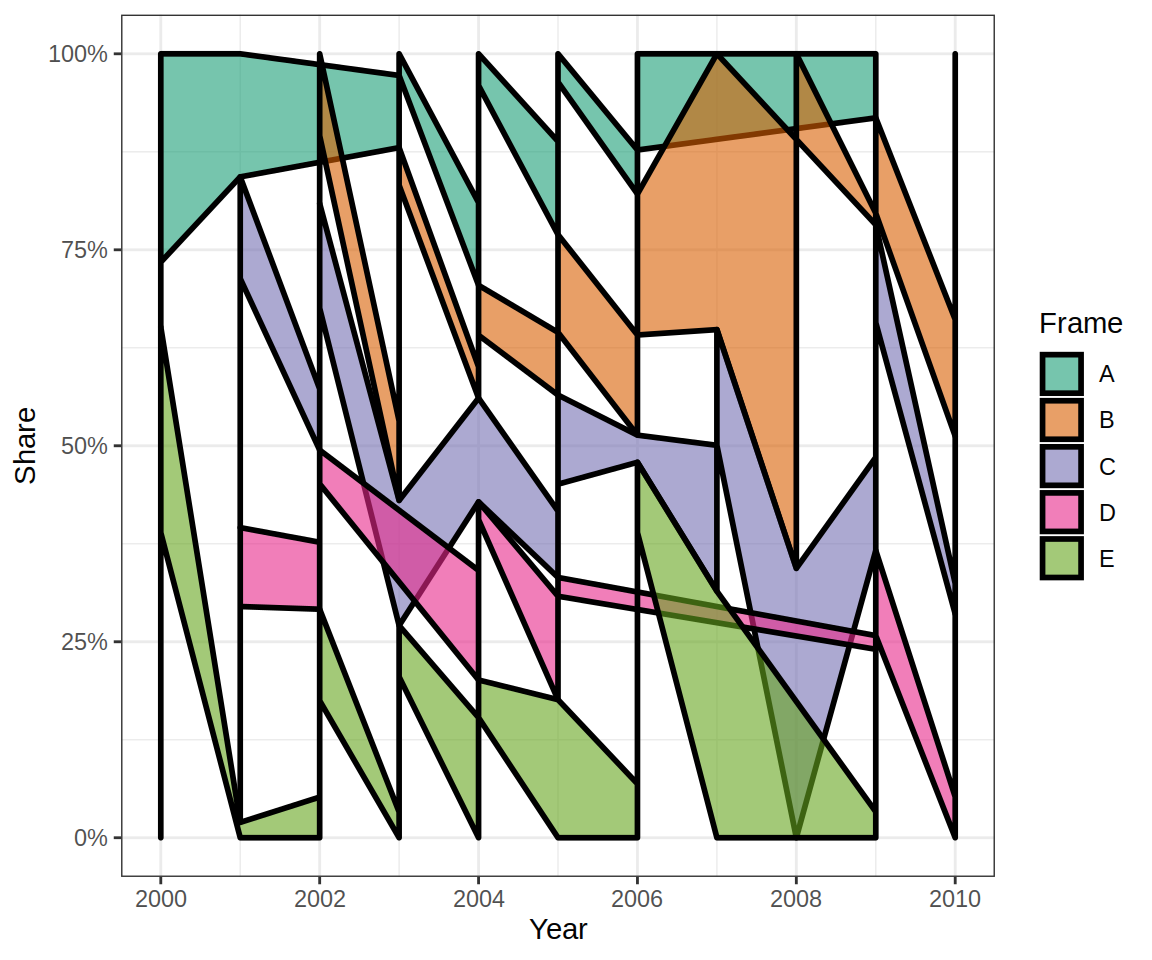
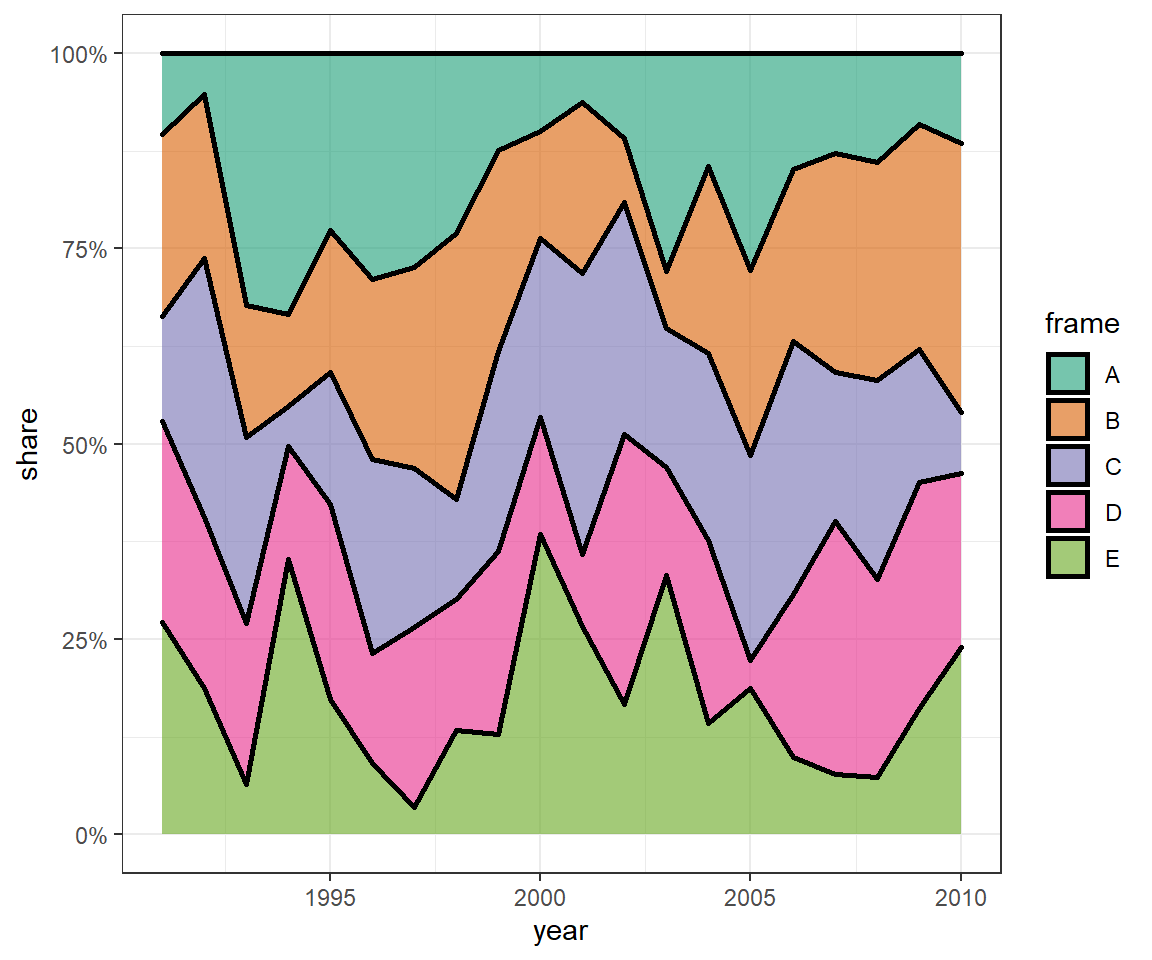
Replaced old broken code

diff --git a/content/post/2018-04-15-my-first-blogdown-post.html b/content/post/2018-04-15-my-first-blogdown-post.html
@@ -23,25 +23,34 @@ output:
 <p>So when I read about blogdown—which is an R package that makes it easy to set up and manage websites—I thought I might give it a try. And in fact, due to Yihui Xie’s wonderful <a href="https://bookdown.org/yihui/bookdown/"><strong>online book</strong></a> setting up a blog or personal website means you just have to execute a couple of commands in <code>R</code> (which is my favourite thing to do anyway) to get a personal site that includes space to share information about myself, my research and have a nice spot to share some of my endeavours in academia or with <code>R</code>.</p>
 <p>One major upside of this approach is that it is quick and easy to share R code and the plots it creates. This, for example, is the code to one of my favourite plots: a proportional stacked area graph.</p>
 <pre class="r"><code># Load libraries
-library(ggplot2)
-library(RColorBrewer)
-
-# Make some data
-set.seed(345)
+library(&quot;ggplot2&quot;)
+library(&quot;RColorBrewer&quot;)
+library(&quot;dplyr&quot;)</code></pre>
+<pre><code>## 
+## Attaching package: &#39;dplyr&#39;</code></pre>
+<pre><code>## The following objects are masked from &#39;package:stats&#39;:
+## 
+##     filter, lag</code></pre>
+<pre><code>## The following objects are masked from &#39;package:base&#39;:
+## 
+##     intersect, setdiff, setequal, union</code></pre>
+<pre class="r"><code># Make some data
+set.seed(123)
 df &lt;- data.frame(
-  Frame = sample(LETTERS[1:5], 100, replace = TRUE),
-  Year = as.numeric(sample(2000:2010, 100, replace = TRUE)),
-  Value = runif(100,  10, 100)
+  frame = rep(LETTERS[1:5], 20),
+  year = rep(1991:2010, each = 5),
+  value = runif(100,  10, 100)
 )
 
-# Make data proportional
-df$Share &lt;- df$Value / sapply(df$Year, function(y) {
-  sum(df$Value[df$Year == y])
-})
+# Add proportion
+df_prop &lt;- df  %&gt;%
+  group_by(year, frame) %&gt;%
+  summarise(n = sum(value)) %&gt;%
+  mutate(share = n / sum(n))
 
 # Plot proportional stacked area graph
-ggplot(df, aes(x = Year, y = Share, fill = Frame)) + 
-  geom_area(alpha = 0.6 , size = 1, colour = &quot;black&quot;) +
+ggplot(df_prop, aes(x = year, y = share, fill = frame)) + 
+  geom_area(position = &quot;stack&quot;, alpha = 0.6, size = 1, colour = &quot;black&quot;) +
   scale_y_continuous(labels = scales::percent) +
   scale_fill_brewer(palette = &quot;Dark2&quot;) +
   scale_x_continuous(breaks = scales::pretty_breaks()) +
